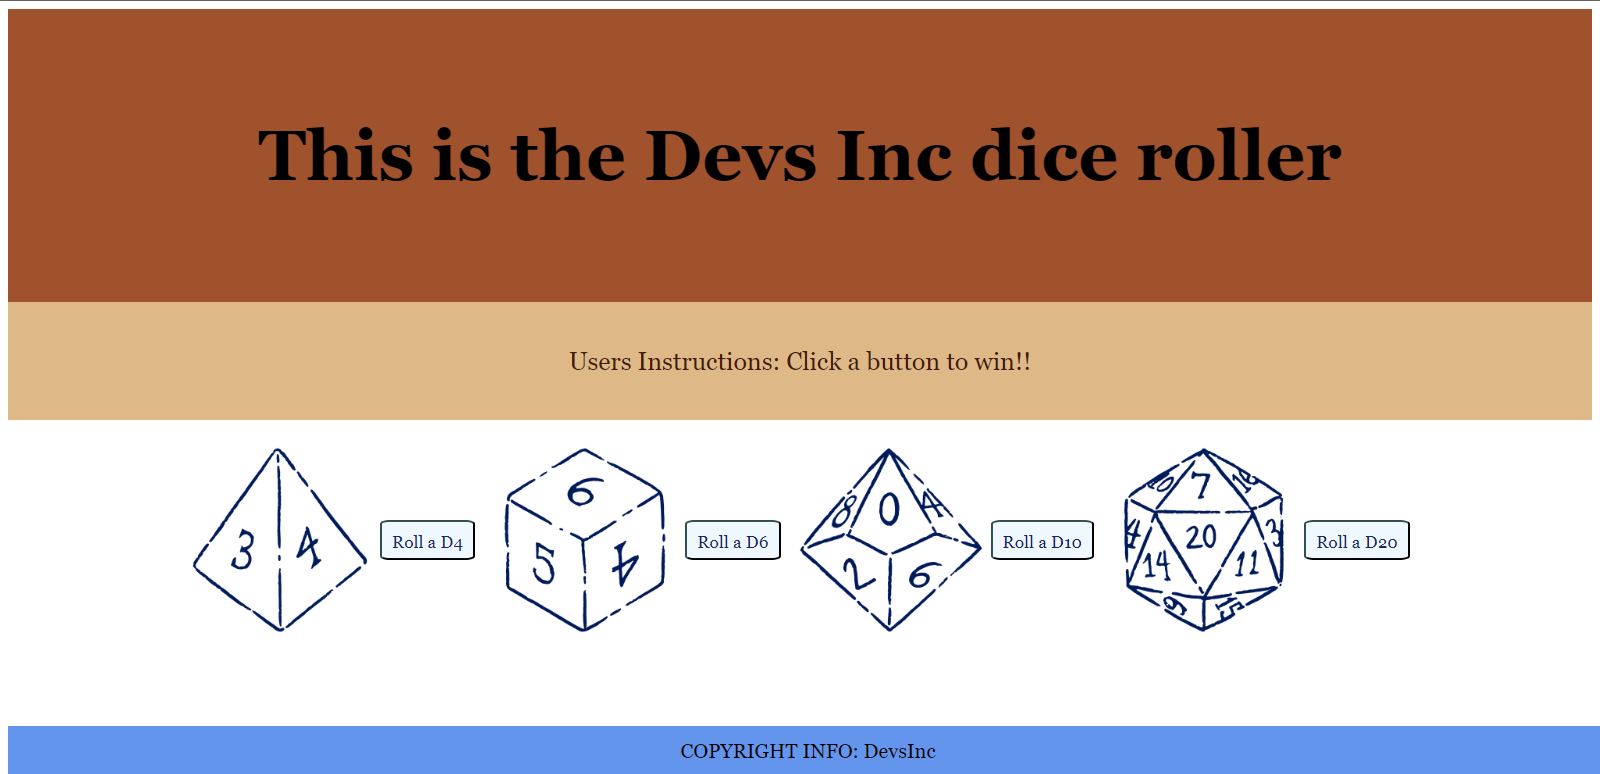
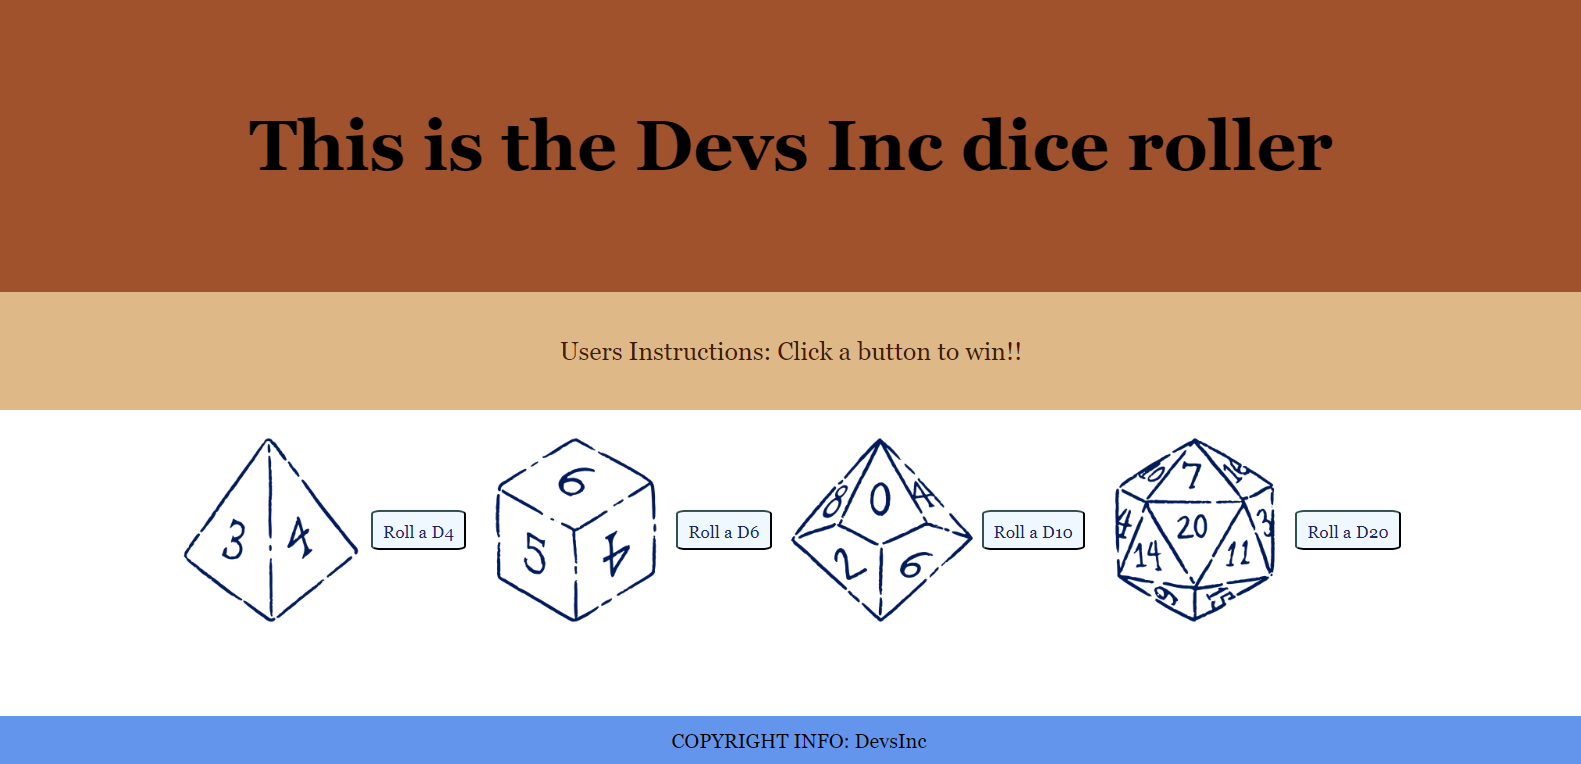
edited image to look nicer, changed css and html to make more responsive

diff --git a/index.html b/index.html
@@ -11,16 +11,16 @@
         <h1>Emma Landry</h1> 
     </header>
     <article>   
-        <section>
-            <img class="profile" src="images/profile_pic.jpg" alt="profile_pic" width="40%">
+        <section class="profile">
             <h2>About me</h2>
-                <p>I currently work at a grocery store in Louisiana. I am studying at the Institute of Data to learn how to use HTML, CSS, and JavaScript to create web pages.</p>
+            <p><img class="profile-pic" src="images/profile_pic.jpg" alt="profile_pic" width="40%">
+            I currently work in retail in Louisiana. I am studying at the Institute of Data using HTML, CSS, and JavaScript to learn how to create my own websites.</p>
         </section>
 
         <section class="works">
-            <h2>What I've Worked On</h2>
-            <img class="project" src="images/dice_roller.png" alt="dice_roller" width="100%">
-            <p>Above is a webpage where users can roll different types of dice for various tabletop games.<br>
+            <h2>What I've Worked On</h2> 
+            <p><a href="https://github.com/emma-landry7/diceRoller"><img class="project" src="images/dice_roller.png" alt="dice_roller" width="100%"></a>
+                Above is a webpage where users can roll different types of dice for various tabletop games.<br>
                 Here's a link to my GitHub page to learn more: <a href="https://github.com/emma-landry7">GitHub</a></p>
         </section>
     </article>

diff --git a/style.css b/style.css
@@ -1,6 +1,7 @@
 body {
     font-family: Arial, Helvetica, sans-serif;
-    margin: -1px;
+    margin: 1px;
+    background-color: rgb(255, 192, 202);
 }
 
 header {
@@ -11,17 +12,38 @@ header {
 }
 
 article {
-    background-color: pink;
+    background-color: rgb(255, 192, 218);
     color: black;
     display: flex;
-    justify-content: space-around;
+    justify-content: center;
+    align-items: flex-start;
     padding: 1rem;
-    
 }
 
-img.profile {
-    padding: 10px;
+.profile-pic {
     float: left;
+    margin-right: 15px;
+    margin-bottom: 10px;
+    border-radius: 30%;
+    min-width: 150px;
+}
+
+.project {
+    margin: 0px 0px 15px 0px;
+    min-width: 320px;
+}
+
+.works {
+    display: flex;
+    flex-wrap: wrap;
+    flex-basis: 150rem;
+    margin: 0px 0px 5px 5px;
+}
+
+.profile {
+    display: flex;
+    flex-wrap: wrap;
+    margin: 0px 5px 5px 0px;
 }
 
 footer {
@@ -29,17 +51,7 @@ footer {
     color: white;
     display: block;
     padding: 1rem;
-}
-
-section.works {
-    display: inherit;
-    flex-wrap: wrap;
-    flex-basis: 50rem;
-}
-
-section.profile {
-    display: inherit;
-    flex-wrap: wrap;
+    border-top: 2px dotted black;
 }
 
 a:default {
